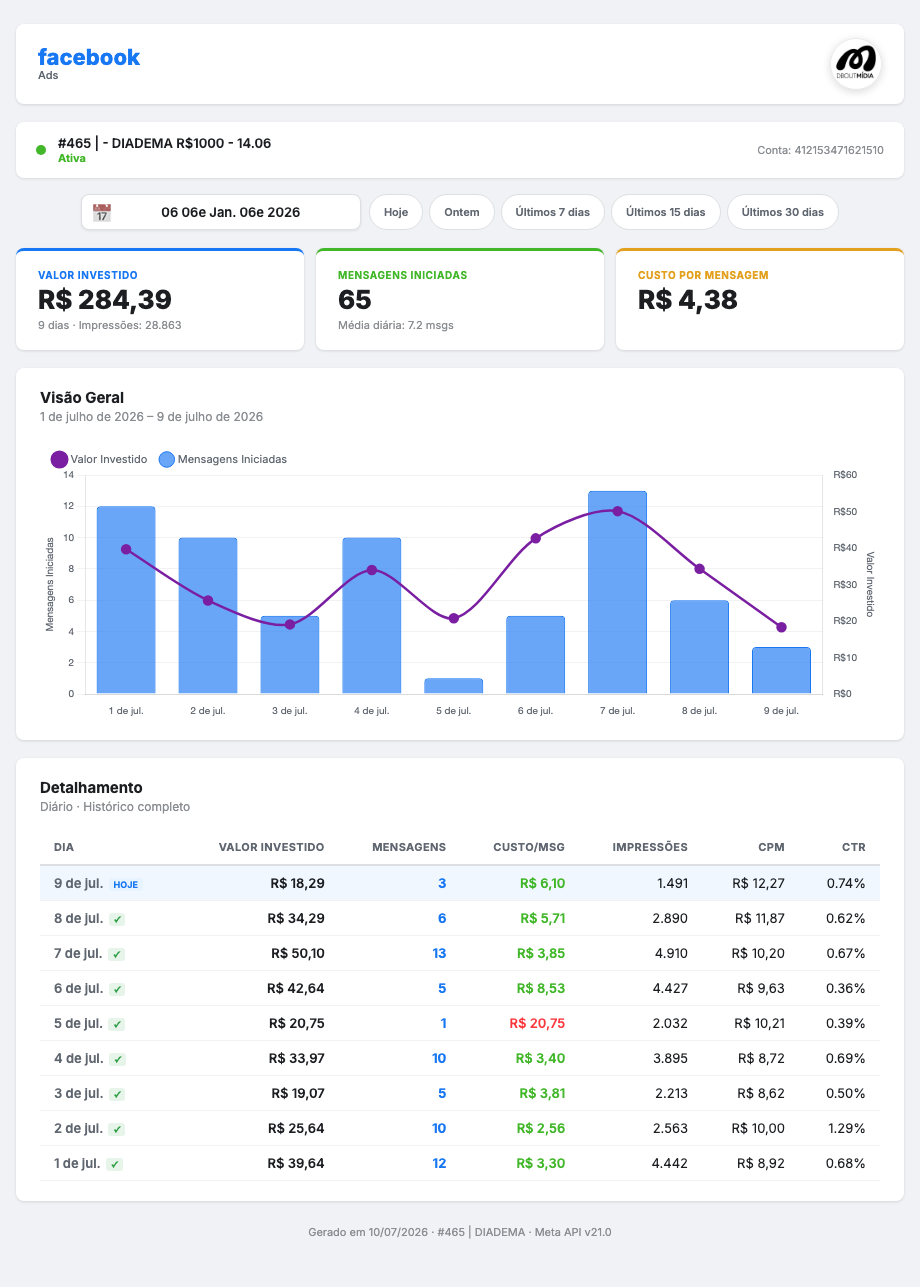
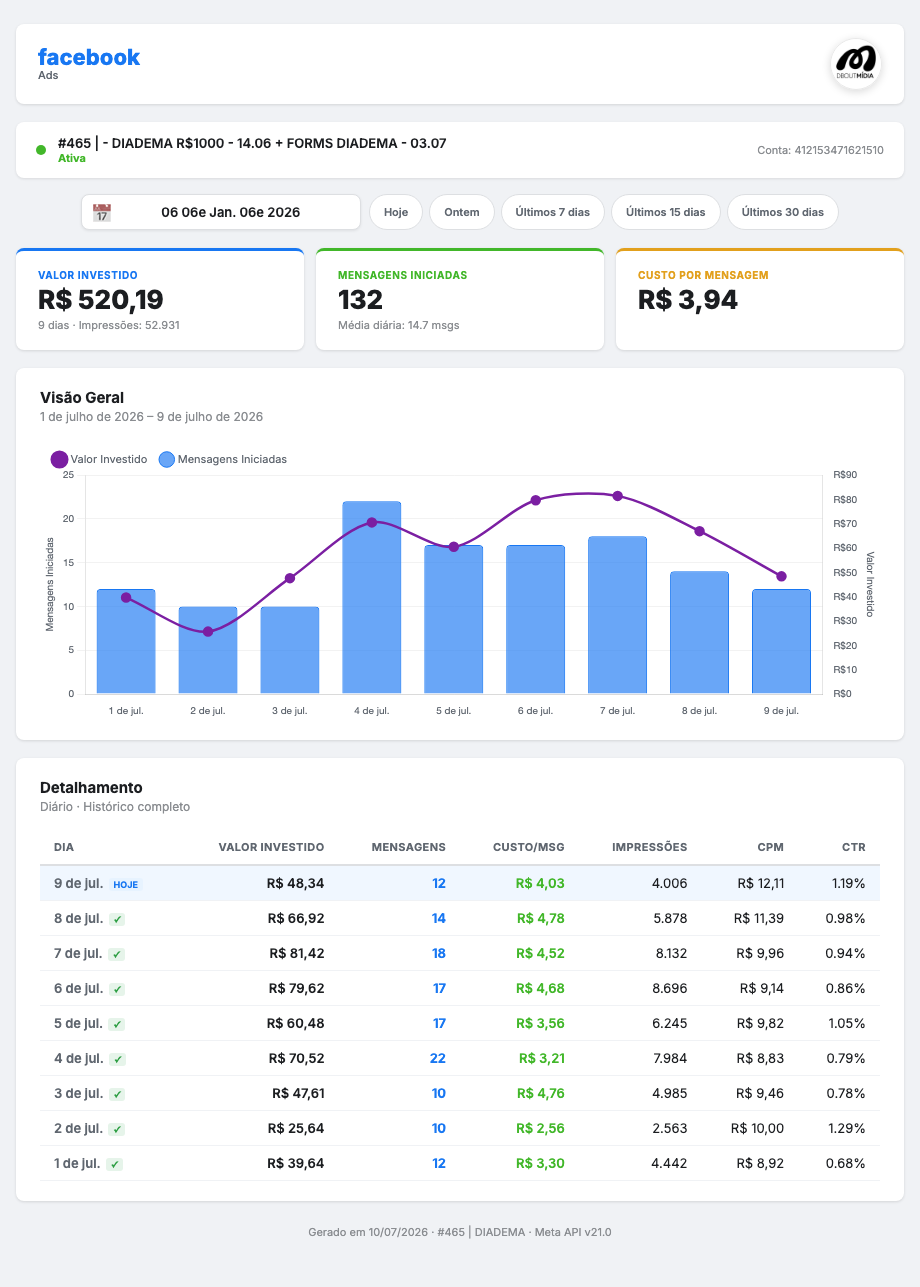
Igor Teixeira #NNN — 2026-07-01→2026-07-09 (55 cards)

diff --git a/relatorio_igor_429_curitiba_xv_de_novembro_429.html b/relatorio_igor_429_curitiba_xv_de_novembro_429.html
@@ -101,7 +101,7 @@ tbody td:first-child{text-align:left;color:#606770;font-weight:600}
 <div class="camp-info">
   <div class="camp-dot"></div>
   <div>
-    <div class="camp-name">#429 | 3078 - CURITIBA XV NOVEBRO - 12-06 + #429 | 3078 - CURITIBA XV NOVEBRO - 14.12</div>
+    <div class="camp-name">#429 | 3078 - CURITIBA XV NOVEBRO - 12-06 + #429 | 3078 - CURITIBA XV NOVEBRO - 14.12 + 429 | 3078 - CURITIBA XV NOV FORMULÁRIO - 07.07</div>
     <div class="camp-status">Ativa</div>
   </div>
   <div class="camp-account">Conta: 391009870578696</div>
@@ -172,7 +172,7 @@ tbody td:first-child{text-align:left;color:#606770;font-weight:600}
 </div>
 
 <script>
-const DAILY = [{"date": "2026-07-09", "spend": 48.7, "msgs": 11, "cost_msg": 4.43, "impr": 2998, "cpm": 16.24, "ctr": 1.13}, {"date": "2026-07-08", "spend": 79.5, "msgs": 10, "cost_msg": 7.95, "impr": 5180, "cpm": 15.35, "ctr": 1.18}, {"date": "2026-07-07", "spend": 80.32, "msgs": 9, "cost_msg": 8.92, "impr": 5057, "cpm": 15.88, "ctr": 0.75}, {"date": "2026-07-06", "spend": 82.4, "msgs": 7, "cost_msg": 11.77, "impr": 4779, "cpm": 17.24, "ctr": 0.98}, {"date": "2026-07-05", "spend": 44.85, "msgs": 7, "cost_msg": 6.41, "impr": 3340, "cpm": 13.43, "ctr": 1.29}, {"date": "2026-07-04", "spend": 66.62, "msgs": 9, "cost_msg": 7.4, "impr": 5062, "cpm": 13.16, "ctr": 0.97}, {"date": "2026-07-03", "spend": 64.34, "msgs": 22, "cost_msg": 2.92, "impr": 4036, "cpm": 15.94, "ctr": 1.68}, {"date": "2026-07-02", "spend": 49.39, "msgs": 13, "cost_msg": 3.8, "impr": 3379, "cpm": 14.62, "ctr": 1.45}, {"date": "2026-07-01", "spend": 68.14, "msgs": 15, "cost_msg": 4.54, "impr": 5142, "cpm": 13.25, "ctr": 0.91}];
+const DAILY = [{"date": "2026-07-09", "spend": 76.95, "msgs": 16, "cost_msg": 4.81, "impr": 4259, "cpm": 19.32, "ctr": 1.75}, {"date": "2026-07-08", "spend": 124.37, "msgs": 13, "cost_msg": 9.57, "impr": 6726, "cpm": 22.18, "ctr": 1.17}, {"date": "2026-07-07", "spend": 114.95, "msgs": 9, "cost_msg": 12.77, "impr": 6421, "cpm": 20.64, "ctr": 0.59}, {"date": "2026-07-06", "spend": 82.4, "msgs": 7, "cost_msg": 11.77, "impr": 4779, "cpm": 17.24, "ctr": 0.98}, {"date": "2026-07-05", "spend": 44.85, "msgs": 7, "cost_msg": 6.41, "impr": 3340, "cpm": 13.43, "ctr": 1.29}, {"date": "2026-07-04", "spend": 66.62, "msgs": 9, "cost_msg": 7.4, "impr": 5062, "cpm": 13.16, "ctr": 0.97}, {"date": "2026-07-03", "spend": 64.34, "msgs": 22, "cost_msg": 2.92, "impr": 4036, "cpm": 15.94, "ctr": 1.68}, {"date": "2026-07-02", "spend": 49.39, "msgs": 13, "cost_msg": 3.8, "impr": 3379, "cpm": 14.62, "ctr": 1.45}, {"date": "2026-07-01", "spend": 68.14, "msgs": 15, "cost_msg": 4.54, "impr": 5142, "cpm": 13.25, "ctr": 0.91}];
 const DEFAULT_DAYS = 15;
 const FIXED_SINCE = '2026-07-01';
 const FIXED_UNTIL = '2026-07-09';

diff --git a/relatorio_igor_465_diadema_465.html b/relatorio_igor_465_diadema_465.html
@@ -101,7 +101,7 @@ tbody td:first-child{text-align:left;color:#606770;font-weight:600}
 <div class="camp-info">
   <div class="camp-dot"></div>
   <div>
-    <div class="camp-name">#465 | - DIADEMA R$1000 - 14.06</div>
+    <div class="camp-name">#465 | - DIADEMA R$1000 - 14.06 + FORMS DIADEMA - 03.07</div>
     <div class="camp-status">Ativa</div>
   </div>
   <div class="camp-account">Conta: 412153471621510</div>
@@ -172,7 +172,7 @@ tbody td:first-child{text-align:left;color:#606770;font-weight:600}
 </div>
 
 <script>
-const DAILY = [{"date": "2026-07-09", "spend": 18.29, "msgs": 3, "cost_msg": 6.1, "impr": 1491, "cpm": 12.27, "ctr": 0.74}, {"date": "2026-07-08", "spend": 34.29, "msgs": 6, "cost_msg": 5.71, "impr": 2890, "cpm": 11.87, "ctr": 0.62}, {"date": "2026-07-07", "spend": 50.1, "msgs": 13, "cost_msg": 3.85, "impr": 4910, "cpm": 10.2, "ctr": 0.67}, {"date": "2026-07-06", "spend": 42.64, "msgs": 5, "cost_msg": 8.53, "impr": 4427, "cpm": 9.63, "ctr": 0.36}, {"date": "2026-07-05", "spend": 20.75, "msgs": 1, "cost_msg": 20.75, "impr": 2032, "cpm": 10.21, "ctr": 0.39}, {"date": "2026-07-04", "spend": 33.97, "msgs": 10, "cost_msg": 3.4, "impr": 3895, "cpm": 8.72, "ctr": 0.69}, {"date": "2026-07-03", "spend": 19.07, "msgs": 5, "cost_msg": 3.81, "impr": 2213, "cpm": 8.62, "ctr": 0.5}, {"date": "2026-07-02", "spend": 25.64, "msgs": 10, "cost_msg": 2.56, "impr": 2563, "cpm": 10.0, "ctr": 1.29}, {"date": "2026-07-01", "spend": 39.64, "msgs": 12, "cost_msg": 3.3, "impr": 4442, "cpm": 8.92, "ctr": 0.68}];
+const DAILY = [{"date": "2026-07-09", "spend": 48.34, "msgs": 12, "cost_msg": 4.03, "impr": 4006, "cpm": 12.11, "ctr": 1.19}, {"date": "2026-07-08", "spend": 66.92, "msgs": 14, "cost_msg": 4.78, "impr": 5878, "cpm": 11.39, "ctr": 0.98}, {"date": "2026-07-07", "spend": 81.42, "msgs": 18, "cost_msg": 4.52, "impr": 8132, "cpm": 9.96, "ctr": 0.94}, {"date": "2026-07-06", "spend": 79.62, "msgs": 17, "cost_msg": 4.68, "impr": 8696, "cpm": 9.14, "ctr": 0.86}, {"date": "2026-07-05", "spend": 60.48, "msgs": 17, "cost_msg": 3.56, "impr": 6245, "cpm": 9.82, "ctr": 1.05}, {"date": "2026-07-04", "spend": 70.52, "msgs": 22, "cost_msg": 3.21, "impr": 7984, "cpm": 8.83, "ctr": 0.79}, {"date": "2026-07-03", "spend": 47.61, "msgs": 10, "cost_msg": 4.76, "impr": 4985, "cpm": 9.46, "ctr": 0.78}, {"date": "2026-07-02", "spend": 25.64, "msgs": 10, "cost_msg": 2.56, "impr": 2563, "cpm": 10.0, "ctr": 1.29}, {"date": "2026-07-01", "spend": 39.64, "msgs": 12, "cost_msg": 3.3, "impr": 4442, "cpm": 8.92, "ctr": 0.68}];
 const DEFAULT_DAYS = 15;
 const FIXED_SINCE = '2026-07-01';
 const FIXED_UNTIL = '2026-07-09';

diff --git a/relatorio_igor_425_queimadas_425.html b/relatorio_igor_425_queimadas_425.html
@@ -101,7 +101,7 @@ tbody td:first-child{text-align:left;color:#606770;font-weight:600}
 <div class="camp-info">
   <div class="camp-dot"></div>
   <div>
-    <div class="camp-name">#425 | 1371 -  Queimadas - R$1,500</div>
+    <div class="camp-name">#425 | 1371 -  Queimadas - R$1,500 + FORMULÁRIO QUEIMADAS E ESPERANÇA - 01.07</div>
     <div class="camp-status">Pausada</div>
   </div>
   <div class="camp-account">Conta: 566170923166415</div>
@@ -172,7 +172,7 @@ tbody td:first-child{text-align:left;color:#606770;font-weight:600}
 </div>
 
 <script>
-const DAILY = [{"date": "2026-07-06", "spend": 5.65, "msgs": 0, "cost_msg": 0.0, "impr": 865, "cpm": 6.53, "ctr": 0.81}, {"date": "2026-07-05", "spend": 44.75, "msgs": 4, "cost_msg": 11.19, "impr": 7696, "cpm": 5.81, "ctr": 0.42}, {"date": "2026-07-04", "spend": 46.16, "msgs": 1, "cost_msg": 46.16, "impr": 8322, "cpm": 5.55, "ctr": 0.41}, {"date": "2026-07-03", "spend": 40.9, "msgs": 2, "cost_msg": 20.45, "impr": 6527, "cpm": 6.27, "ctr": 0.46}, {"date": "2026-07-02", "spend": 52.02, "msgs": 4, "cost_msg": 13.01, "impr": 7924, "cpm": 6.56, "ctr": 0.45}, {"date": "2026-07-01", "spend": 72.82, "msgs": 4, "cost_msg": 18.2, "impr": 11235, "cpm": 6.48, "ctr": 0.45}];
+const DAILY = [{"date": "2026-07-09", "spend": 46.84, "msgs": 11, "cost_msg": 4.26, "impr": 7899, "cpm": 5.93, "ctr": 1.41}, {"date": "2026-07-08", "spend": 44.95, "msgs": 17, "cost_msg": 2.64, "impr": 7947, "cpm": 5.66, "ctr": 1.54}, {"date": "2026-07-07", "spend": 49.94, "msgs": 15, "cost_msg": 3.33, "impr": 10716, "cpm": 4.66, "ctr": 1.33}, {"date": "2026-07-06", "spend": 56.29, "msgs": 18, "cost_msg": 3.13, "impr": 13041, "cpm": 5.35, "ctr": 1.02}, {"date": "2026-07-05", "spend": 74.38, "msgs": 12, "cost_msg": 6.2, "impr": 14803, "cpm": 4.99, "ctr": 0.95}, {"date": "2026-07-04", "spend": 76.24, "msgs": 7, "cost_msg": 10.89, "impr": 15226, "cpm": 4.96, "ctr": 0.97}, {"date": "2026-07-03", "spend": 65.6, "msgs": 10, "cost_msg": 6.56, "impr": 11860, "cpm": 5.45, "ctr": 0.92}, {"date": "2026-07-02", "spend": 79.48, "msgs": 13, "cost_msg": 6.11, "impr": 13510, "cpm": 5.74, "ctr": 1.05}, {"date": "2026-07-01", "spend": 102.31, "msgs": 9, "cost_msg": 11.37, "impr": 16461, "cpm": 6.06, "ctr": 0.92}];
 const DEFAULT_DAYS = 15;
 const FIXED_SINCE = '2026-07-01';
 const FIXED_UNTIL = '2026-07-09';

diff --git a/relatorio_igor_410_fazenda_rio_grande_410.html b/relatorio_igor_410_fazenda_rio_grande_410.html
@@ -172,7 +172,7 @@ tbody td:first-child{text-align:left;color:#606770;font-weight:600}
 </div>
 
 <script>
-const DAILY = [{"date": "2026-07-09", "spend": 183.68, "msgs": 14, "cost_msg": 13.12, "impr": 14560, "cpm": 12.57, "ctr": 0.74}, {"date": "2026-07-08", "spend": 259.43, "msgs": 16, "cost_msg": 16.21, "impr": 19883, "cpm": 12.82, "ctr": 0.77}, {"date": "2026-07-07", "spend": 274.94, "msgs": 27, "cost_msg": 10.18, "impr": 21972, "cpm": 12.05, "ctr": 0.73}, {"date": "2026-07-06", "spend": 245.5, "msgs": 22, "cost_msg": 11.16, "impr": 18825, "cpm": 12.57, "ctr": 0.76}, {"date": "2026-07-05", "spend": 201.0, "msgs": 20, "cost_msg": 10.05, "impr": 18424, "cpm": 10.79, "ctr": 0.77}, {"date": "2026-07-04", "spend": 227.15, "msgs": 29, "cost_msg": 7.83, "impr": 21777, "cpm": 10.32, "ctr": 0.79}, {"date": "2026-07-03", "spend": 199.26, "msgs": 28, "cost_msg": 7.12, "impr": 16667, "cpm": 8.0, "ctr": 0.55}, {"date": "2026-07-02", "spend": 201.91, "msgs": 25, "cost_msg": 8.08, "impr": 17979, "cpm": 7.44, "ctr": 0.53}, {"date": "2026-07-01", "spend": 317.2, "msgs": 28, "cost_msg": 11.33, "impr": 29363, "cpm": 11.98, "ctr": 0.72}];
+const DAILY = [{"date": "2026-07-09", "spend": 183.68, "msgs": 14, "cost_msg": 13.12, "impr": 14561, "cpm": 12.57, "ctr": 0.76}, {"date": "2026-07-08", "spend": 259.43, "msgs": 16, "cost_msg": 16.21, "impr": 19883, "cpm": 12.82, "ctr": 0.77}, {"date": "2026-07-07", "spend": 274.94, "msgs": 27, "cost_msg": 10.18, "impr": 21972, "cpm": 12.05, "ctr": 0.73}, {"date": "2026-07-06", "spend": 245.5, "msgs": 22, "cost_msg": 11.16, "impr": 18825, "cpm": 12.57, "ctr": 0.76}, {"date": "2026-07-05", "spend": 201.0, "msgs": 20, "cost_msg": 10.05, "impr": 18424, "cpm": 10.79, "ctr": 0.77}, {"date": "2026-07-04", "spend": 227.15, "msgs": 29, "cost_msg": 7.83, "impr": 21777, "cpm": 10.32, "ctr": 0.79}, {"date": "2026-07-03", "spend": 199.26, "msgs": 28, "cost_msg": 7.12, "impr": 16667, "cpm": 8.0, "ctr": 0.55}, {"date": "2026-07-02", "spend": 201.91, "msgs": 25, "cost_msg": 8.08, "impr": 17979, "cpm": 7.44, "ctr": 0.53}, {"date": "2026-07-01", "spend": 317.2, "msgs": 28, "cost_msg": 11.33, "impr": 29363, "cpm": 11.98, "ctr": 0.72}];
 const DEFAULT_DAYS = 15;
 const FIXED_SINCE = '2026-07-01';
 const FIXED_UNTIL = '2026-07-09';

diff --git a/relatorio_igor_411_366_colombo_pg_411.html b/relatorio_igor_411_366_colombo_pg_411.html
@@ -172,7 +172,7 @@ tbody td:first-child{text-align:left;color:#606770;font-weight:600}
 </div>
 
 <script>
-const DAILY = [{"date": "2026-07-09", "spend": 111.54, "msgs": 12, "cost_msg": 9.29, "impr": 8616, "cpm": 12.95, "ctr": 0.77}, {"date": "2026-07-08", "spend": 112.77, "msgs": 15, "cost_msg": 7.52, "impr": 10091, "cpm": 11.18, "ctr": 0.91}, {"date": "2026-07-07", "spend": 81.76, "msgs": 8, "cost_msg": 10.22, "impr": 9036, "cpm": 9.05, "ctr": 0.7}, {"date": "2026-07-06", "spend": 65.21, "msgs": 6, "cost_msg": 10.87, "impr": 6311, "cpm": 11.18, "ctr": 0.48}, {"date": "2026-07-05", "spend": 159.24, "msgs": 20, "cost_msg": 7.96, "impr": 14903, "cpm": 10.62, "ctr": 0.77}, {"date": "2026-07-04", "spend": 158.18, "msgs": 23, "cost_msg": 6.88, "impr": 14799, "cpm": 10.04, "ctr": 0.97}, {"date": "2026-07-03", "spend": 140.05, "msgs": 20, "cost_msg": 7.0, "impr": 13139, "cpm": 10.27, "ctr": 1.04}, {"date": "2026-07-02", "spend": 141.49, "msgs": 20, "cost_msg": 7.07, "impr": 13316, "cpm": 11.15, "ctr": 0.75}, {"date": "2026-07-01", "spend": 163.57, "msgs": 27, "cost_msg": 6.06, "impr": 17304, "cpm": 9.61, "ctr": 0.75}];
+const DAILY = [{"date": "2026-07-09", "spend": 111.54, "msgs": 12, "cost_msg": 9.29, "impr": 8618, "cpm": 12.94, "ctr": 0.77}, {"date": "2026-07-08", "spend": 112.77, "msgs": 15, "cost_msg": 7.52, "impr": 10091, "cpm": 11.18, "ctr": 0.91}, {"date": "2026-07-07", "spend": 81.76, "msgs": 8, "cost_msg": 10.22, "impr": 9036, "cpm": 9.05, "ctr": 0.7}, {"date": "2026-07-06", "spend": 65.21, "msgs": 6, "cost_msg": 10.87, "impr": 6311, "cpm": 11.18, "ctr": 0.48}, {"date": "2026-07-05", "spend": 159.24, "msgs": 20, "cost_msg": 7.96, "impr": 14903, "cpm": 10.62, "ctr": 0.77}, {"date": "2026-07-04", "spend": 158.18, "msgs": 23, "cost_msg": 6.88, "impr": 14799, "cpm": 10.04, "ctr": 0.97}, {"date": "2026-07-03", "spend": 140.05, "msgs": 20, "cost_msg": 7.0, "impr": 13139, "cpm": 10.27, "ctr": 1.04}, {"date": "2026-07-02", "spend": 141.49, "msgs": 20, "cost_msg": 7.07, "impr": 13316, "cpm": 11.15, "ctr": 0.75}, {"date": "2026-07-01", "spend": 163.57, "msgs": 27, "cost_msg": 6.06, "impr": 17304, "cpm": 9.61, "ctr": 0.75}];
 const DEFAULT_DAYS = 15;
 const FIXED_SINCE = '2026-07-01';
 const FIXED_UNTIL = '2026-07-09';

diff --git a/relatorio_igor_436_303_tupa_sp_436.html b/relatorio_igor_436_303_tupa_sp_436.html
@@ -172,7 +172,7 @@ tbody td:first-child{text-align:left;color:#606770;font-weight:600}
 </div>
 
 <script>
-const DAILY = [{"date": "2026-07-09", "spend": 46.61, "msgs": 12, "cost_msg": 3.88, "impr": 5588, "cpm": 8.41, "ctr": 1.01}, {"date": "2026-07-08", "spend": 99.54, "msgs": 8, "cost_msg": 12.44, "impr": 9826, "cpm": 10.11, "ctr": 0.73}, {"date": "2026-07-07", "spend": 133.08, "msgs": 17, "cost_msg": 7.83, "impr": 14088, "cpm": 9.35, "ctr": 0.83}, {"date": "2026-07-06", "spend": 123.85, "msgs": 10, "cost_msg": 12.38, "impr": 13570, "cpm": 9.57, "ctr": 0.78}, {"date": "2026-07-05", "spend": 105.67, "msgs": 4, "cost_msg": 26.42, "impr": 12822, "cpm": 8.59, "ctr": 0.64}, {"date": "2026-07-04", "spend": 135.25, "msgs": 15, "cost_msg": 9.02, "impr": 16154, "cpm": 8.53, "ctr": 0.85}, {"date": "2026-07-03", "spend": 143.57, "msgs": 25, "cost_msg": 5.74, "impr": 16025, "cpm": 8.57, "ctr": 0.45}, {"date": "2026-07-02", "spend": 58.89, "msgs": 7, "cost_msg": 8.41, "impr": 6845, "cpm": 8.42, "ctr": 0.62}, {"date": "2026-07-01", "spend": 45.13, "msgs": 8, "cost_msg": 5.64, "impr": 5607, "cpm": 8.07, "ctr": 0.69}];
+const DAILY = [{"date": "2026-07-09", "spend": 46.61, "msgs": 12, "cost_msg": 3.88, "impr": 5590, "cpm": 8.4, "ctr": 1.01}, {"date": "2026-07-08", "spend": 99.54, "msgs": 8, "cost_msg": 12.44, "impr": 9826, "cpm": 10.11, "ctr": 0.73}, {"date": "2026-07-07", "spend": 133.08, "msgs": 17, "cost_msg": 7.83, "impr": 14088, "cpm": 9.35, "ctr": 0.83}, {"date": "2026-07-06", "spend": 123.85, "msgs": 10, "cost_msg": 12.38, "impr": 13570, "cpm": 9.57, "ctr": 0.78}, {"date": "2026-07-05", "spend": 105.67, "msgs": 4, "cost_msg": 26.42, "impr": 12822, "cpm": 8.59, "ctr": 0.64}, {"date": "2026-07-04", "spend": 135.25, "msgs": 15, "cost_msg": 9.02, "impr": 16154, "cpm": 8.53, "ctr": 0.85}, {"date": "2026-07-03", "spend": 143.57, "msgs": 25, "cost_msg": 5.74, "impr": 16025, "cpm": 8.57, "ctr": 0.45}, {"date": "2026-07-02", "spend": 58.89, "msgs": 7, "cost_msg": 8.41, "impr": 6845, "cpm": 8.42, "ctr": 0.62}, {"date": "2026-07-01", "spend": 45.13, "msgs": 8, "cost_msg": 5.64, "impr": 5607, "cpm": 8.07, "ctr": 0.69}];
 const DEFAULT_DAYS = 15;
 const FIXED_SINCE = '2026-07-01';
 const FIXED_UNTIL = '2026-07-09';

diff --git a/relatorio_igor_424_099_tatuape_424.html b/relatorio_igor_424_099_tatuape_424.html
@@ -172,7 +172,7 @@ tbody td:first-child{text-align:left;color:#606770;font-weight:600}
 </div>
 
 <script>
-const DAILY = [{"date": "2026-07-09", "spend": 31.04, "msgs": 11, "cost_msg": 2.82, "impr": 2360, "cpm": 13.15, "ctr": 1.06}, {"date": "2026-07-08", "spend": 45.95, "msgs": 10, "cost_msg": 4.6, "impr": 3564, "cpm": 12.89, "ctr": 0.81}, {"date": "2026-07-07", "spend": 55.06, "msgs": 4, "cost_msg": 13.77, "impr": 4439, "cpm": 12.4, "ctr": 0.81}, {"date": "2026-07-06", "spend": 47.29, "msgs": 6, "cost_msg": 7.88, "impr": 4271, "cpm": 11.07, "ctr": 0.82}, {"date": "2026-07-05", "spend": 28.01, "msgs": 6, "cost_msg": 4.67, "impr": 3196, "cpm": 8.76, "ctr": 0.94}, {"date": "2026-07-04", "spend": 34.42, "msgs": 10, "cost_msg": 3.44, "impr": 3654, "cpm": 9.42, "ctr": 0.88}, {"date": "2026-07-03", "spend": 34.86, "msgs": 6, "cost_msg": 5.81, "impr": 2961, "cpm": 11.77, "ctr": 0.84}, {"date": "2026-07-02", "spend": 33.64, "msgs": 4, "cost_msg": 8.41, "impr": 3016, "cpm": 11.15, "ctr": 1.33}, {"date": "2026-07-01", "spend": 43.71, "msgs": 10, "cost_msg": 4.37, "impr": 4311, "cpm": 10.14, "ctr": 0.86}];
+const DAILY = [{"date": "2026-07-09", "spend": 31.04, "msgs": 11, "cost_msg": 2.82, "impr": 2360, "cpm": 13.15, "ctr": 1.06}, {"date": "2026-07-08", "spend": 45.97, "msgs": 10, "cost_msg": 4.6, "impr": 3565, "cpm": 12.89, "ctr": 0.81}, {"date": "2026-07-07", "spend": 55.06, "msgs": 4, "cost_msg": 13.77, "impr": 4439, "cpm": 12.4, "ctr": 0.81}, {"date": "2026-07-06", "spend": 47.29, "msgs": 6, "cost_msg": 7.88, "impr": 4271, "cpm": 11.07, "ctr": 0.82}, {"date": "2026-07-05", "spend": 28.01, "msgs": 6, "cost_msg": 4.67, "impr": 3196, "cpm": 8.76, "ctr": 0.94}, {"date": "2026-07-04", "spend": 34.42, "msgs": 10, "cost_msg": 3.44, "impr": 3654, "cpm": 9.42, "ctr": 0.88}, {"date": "2026-07-03", "spend": 34.86, "msgs": 6, "cost_msg": 5.81, "impr": 2961, "cpm": 11.77, "ctr": 0.84}, {"date": "2026-07-02", "spend": 33.64, "msgs": 4, "cost_msg": 8.41, "impr": 3016, "cpm": 11.15, "ctr": 1.33}, {"date": "2026-07-01", "spend": 43.71, "msgs": 10, "cost_msg": 4.37, "impr": 4311, "cpm": 10.14, "ctr": 0.86}];
 const DEFAULT_DAYS = 15;
 const FIXED_SINCE = '2026-07-01';
 const FIXED_UNTIL = '2026-07-09';

diff --git a/relatorio_igor_443_balneario_2_whats_com_problema_443.html b/relatorio_igor_443_balneario_2_whats_com_problema_443.html
@@ -172,7 +172,7 @@ tbody td:first-child{text-align:left;color:#606770;font-weight:600}
 </div>
 
 <script>
-const DAILY = [{"date": "2026-07-09", "spend": 23.28, "msgs": 2, "cost_msg": 11.64, "impr": 1949, "cpm": 11.94, "ctr": 1.18}, {"date": "2026-07-08", "spend": 43.35, "msgs": 7, "cost_msg": 6.19, "impr": 1838, "cpm": 23.59, "ctr": 2.01}, {"date": "2026-07-07", "spend": 62.0, "msgs": 7, "cost_msg": 8.86, "impr": 2248, "cpm": 27.58, "ctr": 1.51}, {"date": "2026-07-06", "spend": 42.53, "msgs": 10, "cost_msg": 4.25, "impr": 3373, "cpm": 12.61, "ctr": 1.04}, {"date": "2026-07-05", "spend": 40.83, "msgs": 10, "cost_msg": 4.08, "impr": 3385, "cpm": 12.06, "ctr": 0.71}, {"date": "2026-07-04", "spend": 41.23, "msgs": 6, "cost_msg": 6.87, "impr": 2968, "cpm": 13.89, "ctr": 1.08}, {"date": "2026-07-03", "spend": 41.89, "msgs": 9, "cost_msg": 4.65, "impr": 2720, "cpm": 15.4, "ctr": 1.36}, {"date": "2026-07-02", "spend": 41.92, "msgs": 9, "cost_msg": 4.66, "impr": 3275, "cpm": 12.8, "ctr": 0.92}, {"date": "2026-07-01", "spend": 41.1, "msgs": 11, "cost_msg": 3.74, "impr": 3113, "cpm": 13.2, "ctr": 1.25}];
+const DAILY = [{"date": "2026-07-09", "spend": 23.3, "msgs": 2, "cost_msg": 11.65, "impr": 1952, "cpm": 11.94, "ctr": 1.23}, {"date": "2026-07-08", "spend": 43.35, "msgs": 7, "cost_msg": 6.19, "impr": 1838, "cpm": 23.59, "ctr": 2.01}, {"date": "2026-07-07", "spend": 62.0, "msgs": 7, "cost_msg": 8.86, "impr": 2248, "cpm": 27.58, "ctr": 1.51}, {"date": "2026-07-06", "spend": 42.53, "msgs": 10, "cost_msg": 4.25, "impr": 3373, "cpm": 12.61, "ctr": 1.04}, {"date": "2026-07-05", "spend": 40.83, "msgs": 10, "cost_msg": 4.08, "impr": 3385, "cpm": 12.06, "ctr": 0.71}, {"date": "2026-07-04", "spend": 41.23, "msgs": 6, "cost_msg": 6.87, "impr": 2968, "cpm": 13.89, "ctr": 1.08}, {"date": "2026-07-03", "spend": 41.89, "msgs": 9, "cost_msg": 4.65, "impr": 2720, "cpm": 15.4, "ctr": 1.36}, {"date": "2026-07-02", "spend": 41.92, "msgs": 9, "cost_msg": 4.66, "impr": 3275, "cpm": 12.8, "ctr": 0.92}, {"date": "2026-07-01", "spend": 41.1, "msgs": 11, "cost_msg": 3.74, "impr": 3113, "cpm": 13.2, "ctr": 1.25}];
 const DEFAULT_DAYS = 15;
 const FIXED_SINCE = '2026-07-01';
 const FIXED_UNTIL = '2026-07-09';

diff --git a/relatorio_igor_407_sorocaba_rua_da_penha_407.html b/relatorio_igor_407_sorocaba_rua_da_penha_407.html
@@ -172,7 +172,7 @@ tbody td:first-child{text-align:left;color:#606770;font-weight:600}
 </div>
 
 <script>
-const DAILY = [{"date": "2026-07-09", "spend": 21.44, "msgs": 8, "cost_msg": 2.68, "impr": 2178, "cpm": 9.84, "ctr": 1.1}, {"date": "2026-07-08", "spend": 28.55, "msgs": 14, "cost_msg": 2.04, "impr": 2599, "cpm": 10.98, "ctr": 1.46}, {"date": "2026-07-07", "spend": 32.47, "msgs": 7, "cost_msg": 4.64, "impr": 2789, "cpm": 11.64, "ctr": 0.97}, {"date": "2026-07-06", "spend": 28.58, "msgs": 6, "cost_msg": 4.76, "impr": 2154, "cpm": 13.27, "ctr": 0.6}, {"date": "2026-07-05", "spend": 24.07, "msgs": 5, "cost_msg": 4.81, "impr": 2312, "cpm": 10.41, "ctr": 1.21}, {"date": "2026-07-04", "spend": 21.83, "msgs": 10, "cost_msg": 2.18, "impr": 2461, "cpm": 8.87, "ctr": 0.77}, {"date": "2026-07-03", "spend": 18.85, "msgs": 9, "cost_msg": 2.09, "impr": 1821, "cpm": 10.35, "ctr": 1.21}, {"date": "2026-07-02", "spend": 23.02, "msgs": 10, "cost_msg": 2.3, "impr": 2216, "cpm": 10.39, "ctr": 1.17}, {"date": "2026-07-01", "spend": 31.05, "msgs": 11, "cost_msg": 2.82, "impr": 3746, "cpm": 8.29, "ctr": 1.07}];
+const DAILY = [{"date": "2026-07-09", "spend": 21.46, "msgs": 8, "cost_msg": 2.68, "impr": 2179, "cpm": 9.85, "ctr": 1.1}, {"date": "2026-07-08", "spend": 28.55, "msgs": 14, "cost_msg": 2.04, "impr": 2599, "cpm": 10.98, "ctr": 1.46}, {"date": "2026-07-07", "spend": 32.47, "msgs": 7, "cost_msg": 4.64, "impr": 2789, "cpm": 11.64, "ctr": 0.97}, {"date": "2026-07-06", "spend": 28.58, "msgs": 6, "cost_msg": 4.76, "impr": 2154, "cpm": 13.27, "ctr": 0.6}, {"date": "2026-07-05", "spend": 24.07, "msgs": 5, "cost_msg": 4.81, "impr": 2312, "cpm": 10.41, "ctr": 1.21}, {"date": "2026-07-04", "spend": 21.83, "msgs": 10, "cost_msg": 2.18, "impr": 2461, "cpm": 8.87, "ctr": 0.77}, {"date": "2026-07-03", "spend": 18.85, "msgs": 9, "cost_msg": 2.09, "impr": 1821, "cpm": 10.35, "ctr": 1.21}, {"date": "2026-07-02", "spend": 23.02, "msgs": 10, "cost_msg": 2.3, "impr": 2216, "cpm": 10.39, "ctr": 1.17}, {"date": "2026-07-01", "spend": 31.05, "msgs": 11, "cost_msg": 2.82, "impr": 3746, "cpm": 8.29, "ctr": 1.07}];
 const DEFAULT_DAYS = 15;
 const FIXED_SINCE = '2026-07-01';
 const FIXED_UNTIL = '2026-07-09';

diff --git a/relatorio_igor_437_taubate_437.html b/relatorio_igor_437_taubate_437.html
@@ -172,7 +172,7 @@ tbody td:first-child{text-align:left;color:#606770;font-weight:600}
 </div>
 
 <script>
-const DAILY = [{"date": "2026-07-09", "spend": 82.55, "msgs": 31, "cost_msg": 2.66, "impr": 7996, "cpm": 10.18, "ctr": 1.46}, {"date": "2026-07-08", "spend": 90.17, "msgs": 24, "cost_msg": 3.76, "impr": 9079, "cpm": 9.93, "ctr": 1.38}, {"date": "2026-07-07", "spend": 115.56, "msgs": 31, "cost_msg": 3.73, "impr": 11146, "cpm": 10.34, "ctr": 1.52}, {"date": "2026-07-06", "spend": 49.59, "msgs": 5, "cost_msg": 9.92, "impr": 4438, "cpm": 11.17, "ctr": 1.19}, {"date": "2026-07-05", "spend": 34.77, "msgs": 8, "cost_msg": 4.35, "impr": 4091, "cpm": 8.5, "ctr": 1.05}, {"date": "2026-07-04", "spend": 35.6, "msgs": 8, "cost_msg": 4.45, "impr": 4876, "cpm": 7.3, "ctr": 0.9}, {"date": "2026-07-03", "spend": 44.41, "msgs": 16, "cost_msg": 2.78, "impr": 4892, "cpm": 9.08, "ctr": 1.59}, {"date": "2026-07-02", "spend": 57.83, "msgs": 10, "cost_msg": 5.78, "impr": 6212, "cpm": 9.31, "ctr": 0.82}, {"date": "2026-07-01", "spend": 86.9, "msgs": 14, "cost_msg": 6.21, "impr": 10015, "cpm": 8.68, "ctr": 0.77}];
+const DAILY = [{"date": "2026-07-09", "spend": 82.56, "msgs": 31, "cost_msg": 2.66, "impr": 7997, "cpm": 10.18, "ctr": 1.46}, {"date": "2026-07-08", "spend": 90.17, "msgs": 24, "cost_msg": 3.76, "impr": 9079, "cpm": 9.93, "ctr": 1.38}, {"date": "2026-07-07", "spend": 115.56, "msgs": 31, "cost_msg": 3.73, "impr": 11146, "cpm": 10.34, "ctr": 1.52}, {"date": "2026-07-06", "spend": 49.59, "msgs": 5, "cost_msg": 9.92, "impr": 4438, "cpm": 11.17, "ctr": 1.19}, {"date": "2026-07-05", "spend": 34.77, "msgs": 8, "cost_msg": 4.35, "impr": 4091, "cpm": 8.5, "ctr": 1.05}, {"date": "2026-07-04", "spend": 35.6, "msgs": 8, "cost_msg": 4.45, "impr": 4876, "cpm": 7.3, "ctr": 0.9}, {"date": "2026-07-03", "spend": 44.41, "msgs": 16, "cost_msg": 2.78, "impr": 4892, "cpm": 9.08, "ctr": 1.59}, {"date": "2026-07-02", "spend": 57.83, "msgs": 10, "cost_msg": 5.78, "impr": 6212, "cpm": 9.31, "ctr": 0.82}, {"date": "2026-07-01", "spend": 86.9, "msgs": 14, "cost_msg": 6.21, "impr": 10015, "cpm": 8.68, "ctr": 0.77}];
 const DEFAULT_DAYS = 15;
 const FIXED_SINCE = '2026-07-01';
 const FIXED_UNTIL = '2026-07-09';

diff --git a/relatorio_igor_464_ricardo_muriae_464.html b/relatorio_igor_464_ricardo_muriae_464.html
@@ -172,7 +172,7 @@ tbody td:first-child{text-align:left;color:#606770;font-weight:600}
 </div>
 
 <script>
-const DAILY = [{"date": "2026-07-09", "spend": 27.14, "msgs": 4, "cost_msg": 6.79, "impr": 2882, "cpm": 9.42, "ctr": 0.66}, {"date": "2026-07-08", "spend": 33.16, "msgs": 10, "cost_msg": 3.32, "impr": 3372, "cpm": 9.83, "ctr": 1.01}, {"date": "2026-07-07", "spend": 49.27, "msgs": 11, "cost_msg": 4.48, "impr": 5035, "cpm": 9.79, "ctr": 0.91}, {"date": "2026-07-06", "spend": 47.19, "msgs": 8, "cost_msg": 5.9, "impr": 4489, "cpm": 10.51, "ctr": 0.82}, {"date": "2026-07-05", "spend": 17.18, "msgs": 3, "cost_msg": 5.73, "impr": 1939, "cpm": 8.86, "ctr": 0.98}, {"date": "2026-07-04", "spend": 31.09, "msgs": 8, "cost_msg": 3.89, "impr": 3697, "cpm": 8.41, "ctr": 1.22}, {"date": "2026-07-03", "spend": 29.19, "msgs": 11, "cost_msg": 2.65, "impr": 3023, "cpm": 9.66, "ctr": 0.93}, {"date": "2026-07-02", "spend": 32.63, "msgs": 3, "cost_msg": 10.88, "impr": 3361, "cpm": 9.71, "ctr": 0.77}, {"date": "2026-07-01", "spend": 27.36, "msgs": 3, "cost_msg": 9.12, "impr": 3269, "cpm": 8.37, "ctr": 0.55}];
+const DAILY = [{"date": "2026-07-09", "spend": 27.15, "msgs": 4, "cost_msg": 6.79, "impr": 2883, "cpm": 9.42, "ctr": 0.66}, {"date": "2026-07-08", "spend": 33.16, "msgs": 10, "cost_msg": 3.32, "impr": 3372, "cpm": 9.83, "ctr": 1.01}, {"date": "2026-07-07", "spend": 49.27, "msgs": 11, "cost_msg": 4.48, "impr": 5035, "cpm": 9.79, "ctr": 0.91}, {"date": "2026-07-06", "spend": 47.19, "msgs": 8, "cost_msg": 5.9, "impr": 4489, "cpm": 10.51, "ctr": 0.82}, {"date": "2026-07-05", "spend": 17.18, "msgs": 3, "cost_msg": 5.73, "impr": 1939, "cpm": 8.86, "ctr": 0.98}, {"date": "2026-07-04", "spend": 31.09, "msgs": 8, "cost_msg": 3.89, "impr": 3697, "cpm": 8.41, "ctr": 1.22}, {"date": "2026-07-03", "spend": 29.19, "msgs": 11, "cost_msg": 2.65, "impr": 3023, "cpm": 9.66, "ctr": 0.93}, {"date": "2026-07-02", "spend": 32.63, "msgs": 3, "cost_msg": 10.88, "impr": 3361, "cpm": 9.71, "ctr": 0.77}, {"date": "2026-07-01", "spend": 27.36, "msgs": 3, "cost_msg": 9.12, "impr": 3269, "cpm": 8.37, "ctr": 0.55}];
 const DEFAULT_DAYS = 15;
 const FIXED_SINCE = '2026-07-01';
 const FIXED_UNTIL = '2026-07-09';

diff --git a/relatorio_igor_438_cabo_frio_438.html b/relatorio_igor_438_cabo_frio_438.html
@@ -172,7 +172,7 @@ tbody td:first-child{text-align:left;color:#606770;font-weight:600}
 </div>
 
 <script>
-const DAILY = [{"date": "2026-07-09", "spend": 25.2, "msgs": 4, "cost_msg": 6.3, "impr": 2469, "cpm": 10.21, "ctr": 1.05}, {"date": "2026-07-08", "spend": 35.57, "msgs": 9, "cost_msg": 3.95, "impr": 3518, "cpm": 10.11, "ctr": 0.99}, {"date": "2026-07-07", "spend": 46.79, "msgs": 15, "cost_msg": 3.12, "impr": 4865, "cpm": 9.62, "ctr": 1.03}, {"date": "2026-07-06", "spend": 46.71, "msgs": 3, "cost_msg": 15.57, "impr": 3611, "cpm": 12.94, "ctr": 0.94}, {"date": "2026-07-05", "spend": 21.59, "msgs": 6, "cost_msg": 3.6, "impr": 2381, "cpm": 9.07, "ctr": 1.05}, {"date": "2026-07-04", "spend": 25.84, "msgs": 11, "cost_msg": 2.35, "impr": 3179, "cpm": 8.13, "ctr": 1.32}, {"date": "2026-07-03", "spend": 24.16, "msgs": 9, "cost_msg": 2.68, "impr": 2874, "cpm": 8.41, "ctr": 1.32}, {"date": "2026-07-02", "spend": 28.76, "msgs": 8, "cost_msg": 3.6, "impr": 3721, "cpm": 7.73, "ctr": 1.1}, {"date": "2026-07-01", "spend": 39.33, "msgs": 13, "cost_msg": 3.03, "impr": 4847, "cpm": 8.11, "ctr": 0.95}];
+const DAILY = [{"date": "2026-07-09", "spend": 25.21, "msgs": 4, "cost_msg": 6.3, "impr": 2470, "cpm": 10.21, "ctr": 1.05}, {"date": "2026-07-08", "spend": 35.57, "msgs": 9, "cost_msg": 3.95, "impr": 3518, "cpm": 10.11, "ctr": 0.99}, {"date": "2026-07-07", "spend": 46.79, "msgs": 15, "cost_msg": 3.12, "impr": 4865, "cpm": 9.62, "ctr": 1.03}, {"date": "2026-07-06", "spend": 46.71, "msgs": 3, "cost_msg": 15.57, "impr": 3611, "cpm": 12.94, "ctr": 0.94}, {"date": "2026-07-05", "spend": 21.59, "msgs": 6, "cost_msg": 3.6, "impr": 2381, "cpm": 9.07, "ctr": 1.05}, {"date": "2026-07-04", "spend": 25.84, "msgs": 11, "cost_msg": 2.35, "impr": 3179, "cpm": 8.13, "ctr": 1.32}, {"date": "2026-07-03", "spend": 24.16, "msgs": 9, "cost_msg": 2.68, "impr": 2874, "cpm": 8.41, "ctr": 1.32}, {"date": "2026-07-02", "spend": 28.76, "msgs": 8, "cost_msg": 3.6, "impr": 3721, "cpm": 7.73, "ctr": 1.1}, {"date": "2026-07-01", "spend": 39.33, "msgs": 13, "cost_msg": 3.03, "impr": 4847, "cpm": 8.11, "ctr": 0.95}];
 const DEFAULT_DAYS = 15;
 const FIXED_SINCE = '2026-07-01';
 const FIXED_UNTIL = '2026-07-09';
